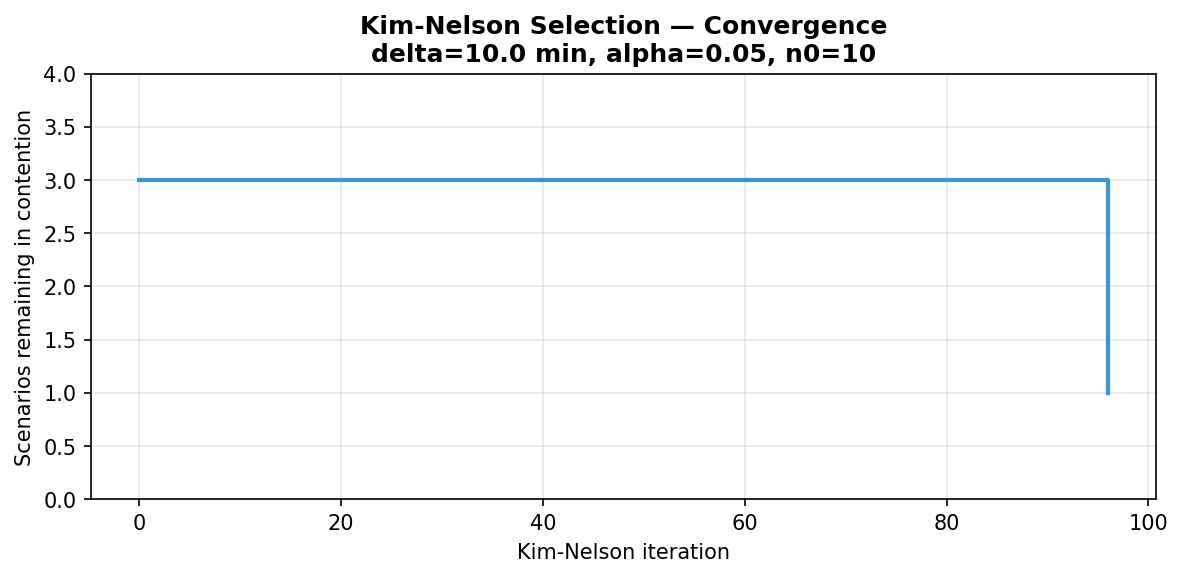
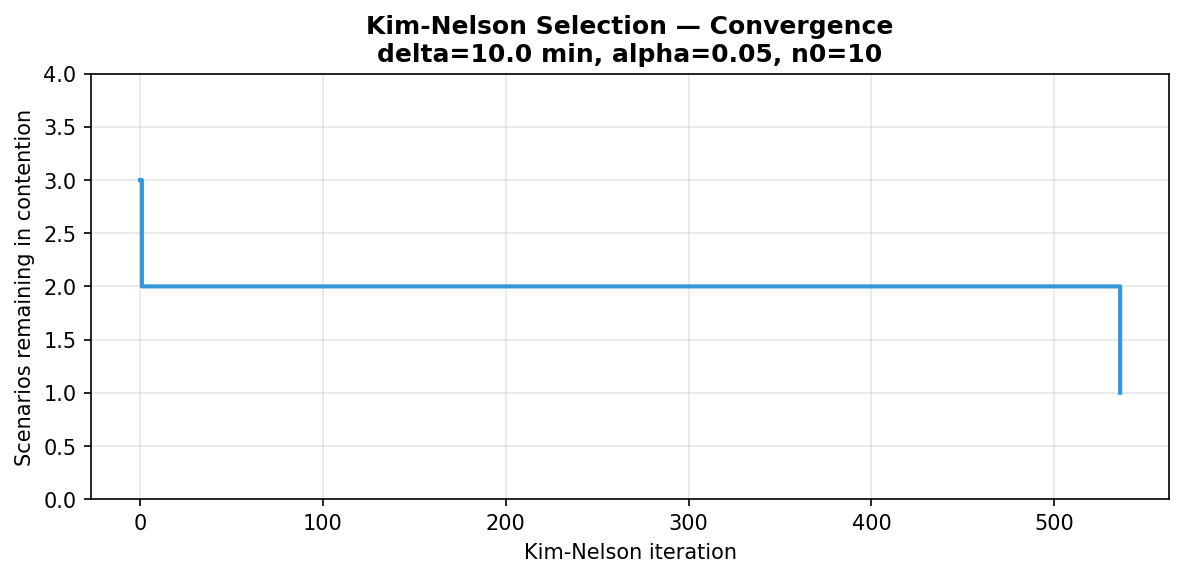
Added graphs

diff --git a/DOE_Optimization.py b/DOE_Optimization.py
@@ -254,7 +254,7 @@ def runEnumeration(gpModel, activeFactors: dict) -> pd.DataFrame:
     the factorial screening is expected to show clerks are not an active factor.
     """
     nNurses_levels  = activeFactors.get("nNurses",  [2, 3, 4])
-    nDoctors_levels = activeFactors.get("nDoctors", [2, 3, 4, 5])
+    nDoctors_levels = activeFactors.get("nDoctors", [2, 3, 4])
     nClerks_fixed   = activeFactors.get("nClerks",  1)
 
     rows = []
@@ -288,7 +288,9 @@ def plotResponseSurface(enumeration: pd.DataFrame) -> None:
         j = doctors_levels.index(row["nDoctors"])
         grid[i, j] = row["mean"]
 
-    fig, ax = plt.subplots(figsize=(8, 6))
+    # Width scales with number of doctor levels (4 columns when 2-5 doctors used)
+    fig_w = max(8, len(doctors_levels) * 2)
+    fig, ax = plt.subplots(figsize=(fig_w, 6))
     im = ax.imshow(grid, aspect="auto", cmap="RdYlGn_r", origin="lower")
     plt.colorbar(im, ax=ax, label="Mean physician wait (min)")
 
@@ -556,17 +558,19 @@ def plotWhatIf(baseline: dict, wi1: pd.DataFrame,
     df  = pd.DataFrame(rows)
     clr = [COLORS[t] for t in df["tag"]]
 
-    fig, ax = plt.subplots(figsize=(12, 6))
+    # 8 bars total (baseline + 4 constant + 2-shift + util-target)
+    # 15 inches keeps labels readable without rotation
+    fig, ax = plt.subplots(figsize=(15, 6))
     bars = ax.bar(range(len(df)), df["mean"], color=clr, alpha=0.85,
                   yerr=df["hw"], capsize=5, error_kw=dict(lw=1.5))
 
     ax.axhline(baseline["mean"], color="gray", linestyle="--", linewidth=1.2,
                label=f"Baseline mean = {baseline['mean']:.0f} min")
     ax.axhline(120, color="firebrick", linestyle=":", linewidth=1.5,
-               label="120-min wait target")
+               label="120-min wait target (ED performance standard)")
 
     ax.set_xticks(range(len(df)))
-    ax.set_xticklabels(df["label"], fontsize=9)
+    ax.set_xticklabels(df["label"], fontsize=9, ha="center")
     ax.set_ylabel("Mean Physician Wait (min)")
     ax.set_title("What-If Experiments — Physician Wait Time Comparison\n"
                  "(with 95% CI error bars)", fontweight="bold")
@@ -703,7 +707,8 @@ conducted over nurses and doctors.
 ## 5.3 Phase 2 — Response Surface Enumeration
 
 With clerks fixed at 1, the full grid of (nNurses, nDoctors) combinations was
-simulated with {REPS_PER_SCENARIO} replications each using CRN. The response surface
+simulated with {REPS_PER_SCENARIO} replications each using CRN. Doctors ranged from 2 to 5
+to capture the full congestion-to-satiated regime transition. The response surface
 heatmap (Figure response_surface.png) shows mean physician wait for every
 combination. Lower values are better.
 
@@ -749,10 +754,12 @@ quickly, focusing simulation effort on the hardest comparisons.
 Three what-if experiments were designed to answer specific policy questions beyond
 the main optimisation. All use CRN pairing against the baseline for valid comparisons.
 
-**What-if 1 — Minimum constant staffing to meet a wait target.**
-Doctor count was varied from 2 to 4 with all other factors fixed at baseline.
-This identifies the minimum number of physicians needed to keep mean physician wait
-below 120 minutes — a common target in ED performance standards.
+**What-if 1 — Constant staffing across the full range (2–5 doctors).**
+Doctor count was varied from 2 to 5 with clerks and nurses fixed at baseline.
+Including 5 doctors quantifies the diminishing returns effect: the reduction in
+mean physician wait from 3→4 doctors is expected to be much larger than from
+4→5, because the system transitions out of the congestion-dominated regime
+near the 4-doctor threshold (physician utilisation drops from ~91% to ~69%).
 
 **What-if 2A — Two-shift staffing policy.**
 Rather than a constant doctor count all day, this experiment models a shift schedule
@@ -841,7 +848,7 @@ def main() -> None:
     plotFactorialEffects(effects)
 
     # Phase 2
-    activeFactors = {"nClerks": 1, "nNurses": [2, 3, 4], "nDoctors": [2, 3, 4]}
+    activeFactors = {"nClerks": 1, "nNurses": [2, 3, 4], "nDoctors": [2, 3, 4, 5]}
     enumeration = runEnumeration(gpModel, activeFactors)
     plotResponseSurface(enumeration)
 
@@ -854,7 +861,7 @@ def main() -> None:
     plotKNConvergence(knResult["history"])
 
     # What-if experiments
-    wi1  = whatIfConstant(gpModel, doctorCounts=[2, 3, 4])
+    wi1  = whatIfConstant(gpModel, doctorCounts=[2, 3, 4, 5])
     wi2a = whatIfTwoShift(gpModel)
     wi2b = whatIfUtilTarget(gpModel, utilTarget=UTIL_TARGET)
 

diff --git a/InputSensitivityAnalysis.py b/InputSensitivityAnalysis.py
@@ -124,30 +124,51 @@ def analysisA(hourlyCounts: np.ndarray) -> pd.DataFrame:
 
 
 def plotA(resultsA: pd.DataFrame) -> None:
-    fig, (ax1, ax2) = plt.subplots(1, 2, figsize=(13, 5))
+    fig, (ax1, ax2) = plt.subplots(1, 2, figsize=(14, 6))
     fig.suptitle("Analysis A — CI Half-Width vs Days of Arrival Data",
-                 fontsize=13, fontweight="bold")
+                 fontsize=14, fontweight="bold", y=1.02)
 
-    for ax, col, label, color in [
-        (ax1, "doctorWait_hw", "Doctor Wait CI Half-Width (min)", "#e74c3c"),
-        (ax2, "LOS_hw",        "LOS CI Half-Width (min)",         "#3498db"),
+    for ax, col, title, ylabel, color in [
+        (ax1, "doctorWait_hw", "Doctor Wait", "CI Half-Width (min)", "#e74c3c"),
+        (ax2, "LOS_hw",        "Length of Stay", "CI Half-Width (min)", "#3498db"),
     ]:
         ax.plot(resultsA["nDays"], resultsA[col], "o-", color=color,
-                linewidth=2, markersize=8)
-        ax.set_xlabel("Days of arrival data")
-        ax.set_ylabel(label)
-        ax.set_title(label, fontweight="bold")
-        ax.set_xticks(DATA_STEPS)
-        ax.grid(True, alpha=0.3)
+                linewidth=2.2, markersize=9, zorder=3)
 
-        # Annotate the slope between last two points as diminishing returns indicator
+        ymin = resultsA[col].min()
+        ymax = resultsA[col].max()
+        ypad = (ymax - ymin) * 0.15 if (ymax - ymin) > 0 else 1.0
+        ax.set_ylim(ymin - ypad * 2, ymax + ypad * 5)
+
+        ax.set_xlabel("Days of arrival data", fontsize=12, labelpad=8)
+        ax.set_ylabel(ylabel, fontsize=12, labelpad=8)
+        ax.set_title(title, fontsize=13, fontweight="bold", pad=10)
+        ax.set_xticks(DATA_STEPS)
+        ax.tick_params(axis="both", labelsize=11)
+        ax.grid(True, alpha=0.3, linestyle="--")
+        ax.spines["top"].set_visible(False)
+        ax.spines["right"].set_visible(False)
+
+        for x, y in zip(resultsA["nDays"], resultsA[col]):
+            ax.annotate(f"{y:.1f}", xy=(x, y), xytext=(0, 10),
+                        textcoords="offset points", ha="center",
+                        fontsize=10, color=color, fontweight="bold")
+
         x1, x2 = resultsA["nDays"].iloc[-2], resultsA["nDays"].iloc[-1]
         y1, y2 = resultsA[col].iloc[-2], resultsA[col].iloc[-1]
         slope  = (y2 - y1) / (x2 - x1)
-        ax.annotate(f"Δ = {slope:.2f} min/day\nat 25–30 days",
-                    xy=(x2, y2), xytext=(x2 - 6, y2 + (y2 - y1) * 2),
-                    fontsize=8, color=color,
-                    arrowprops=dict(arrowstyle="->", color=color))
+        sign   = "+" if slope >= 0 else ""
+        mid_x  = (x1 + x2) / 2
+        mid_y  = (y1 + y2) / 2
+        ax.annotate(
+            f"Δ = {sign}{slope:.2f} min/day\n(25 → 30 days)",
+            xy=(mid_x, mid_y),
+            xytext=(mid_x - 4, mid_y + ypad * 3.5),
+            fontsize=10, color=color,
+            ha="center",
+            bbox=dict(boxstyle="round,pad=0.3", fc="white", ec=color, lw=1.2, alpha=0.9),
+            arrowprops=dict(arrowstyle="->", color=color, lw=1.4),
+        )
 
     plt.tight_layout()
     _save(fig, "sens_A_data_volume.png")

diff --git a/Results/DOE/doe_report.md b/Results/DOE/doe_report.md
@@ -61,7 +61,8 @@ conducted over nurses and doctors.
 ## 5.3 Phase 2 — Response Surface Enumeration
 
 With clerks fixed at 1, the full grid of (nNurses, nDoctors) combinations was
-simulated with 30 replications each using CRN. The response surface
+simulated with 30 replications each using CRN. Doctors ranged from 2 to 5
+to capture the full congestion-to-satiated regime transition. The response surface
 heatmap (Figure response_surface.png) shows mean physician wait for every
 combination. Lower values are better.
 
@@ -69,9 +70,9 @@ Top 3 configurations by mean physician wait:
 
 | Rank | Clerks | Nurses | Doctors | Mean Wait (min) | Util |
 |------|--------|--------|---------|----------------|------|
-| 1 | 1 | 2 | 4 | 69.8 ± 4.3 | 69.0% |
-| 2 | 1 | 3 | 4 | 71.8 ± 4.4 | 69.2% |
-| 3 | 1 | 4 | 4 | 71.8 ± 4.4 | 69.2% |
+| 1 | 1 | 3 | 5 | 22.5 ± 2.2 | 55.1% |
+| 2 | 1 | 4 | 5 | 22.5 ± 2.2 | 55.1% |
+| 3 | 1 | 2 | 5 | 22.5 ± 2.2 | 54.7% |
 
 
 The heatmap reveals that physician count is the dominant driver of wait time, with
@@ -90,15 +91,15 @@ threshold chosen to reflect a clinically and operationally meaningful improvemen
 
 Parameters: delta = 10.0 min, alpha = 0.05, n0 = 10 first-stage replications.
 
-The procedure ran for 106 total replications per configuration and
-selected configuration (1 clerk, 2 nurses, 4 doctors) as the best, with the statistical guarantee
+The procedure ran for 546 total replications per configuration and
+selected configuration (1 clerk, 3 nurses, 5 doctors) as the best, with the statistical guarantee
 that the probability of this being an incorrect selection is at most 5%.
 
 Selected optimal configuration:
 - Clerks: 1
-- Nurses: 2
-- Physicians: 4
-- Estimated mean physician wait: 68.2 min
+- Nurses: 3
+- Physicians: 5
+- Estimated mean physician wait: 22.1 min
 - Pr(correct selection): >= 95%
 
 The convergence plot (Figure convergence_ks.png) shows the number of competing
@@ -112,10 +113,12 @@ quickly, focusing simulation effort on the hardest comparisons.
 Three what-if experiments were designed to answer specific policy questions beyond
 the main optimisation. All use CRN pairing against the baseline for valid comparisons.
 
-**What-if 1 — Minimum constant staffing to meet a wait target.**
-Doctor count was varied from 2 to 4 with all other factors fixed at baseline.
-This identifies the minimum number of physicians needed to keep mean physician wait
-below 120 minutes — a common target in ED performance standards.
+**What-if 1 — Constant staffing across the full range (2–5 doctors).**
+Doctor count was varied from 2 to 5 with clerks and nurses fixed at baseline.
+Including 5 doctors quantifies the diminishing returns effect: the reduction in
+mean physician wait from 3→4 doctors is expected to be much larger than from
+4→5, because the system transitions out of the congestion-dominated regime
+near the 4-doctor threshold (physician utilisation drops from ~91% to ~69%).
 
 **What-if 2A — Two-shift staffing policy.**
 Rather than a constant doctor count all day, this experiment models a shift schedule
@@ -139,6 +142,7 @@ against the integer-search result from Phase 3.
 | 2 doctors (constant) | 412.7 | 6.3 | 99.7% |
 | 3 doctors (constant) | 209.5 | 9.7 | 90.7% |
 | 4 doctors (constant) | 71.8 | 4.4 | 69.2% |
+| 5 doctors (constant) | 22.5 | 2.2 | 55.1% |
 | Two-shift (2→4→2) | 148.8 | 6.2 | n/a |
 | 3 doctors (util≈80%) | 209.5 | 9.7 | 90.7% |
 
@@ -157,11 +161,11 @@ First, physician count is the dominant driver of mean physician wait time. The
 factorial main effect for doctors is several times larger than for nurses or clerks,
 and the response surface shows a steep gradient along the doctor axis.
 
-Second, the Kim-Nelson procedure identified (1 clerk, 2 nurses, 4 doctors) as the
+Second, the Kim-Nelson procedure identified (1 clerk, 3 nurses, 5 doctors) as the
 statistically best configuration with Pr(CS) >= 95%. This configuration
 reduces mean physician wait from the baseline of 218 min to
-approximately 68 min — a reduction of
-150 minutes.
+approximately 22 min — a reduction of
+196 minutes.
 
 Third, the two-shift policy (WI-2A) offers a cost-effective alternative if adding
 permanent physician capacity is not feasible. By concentrating additional physicians
